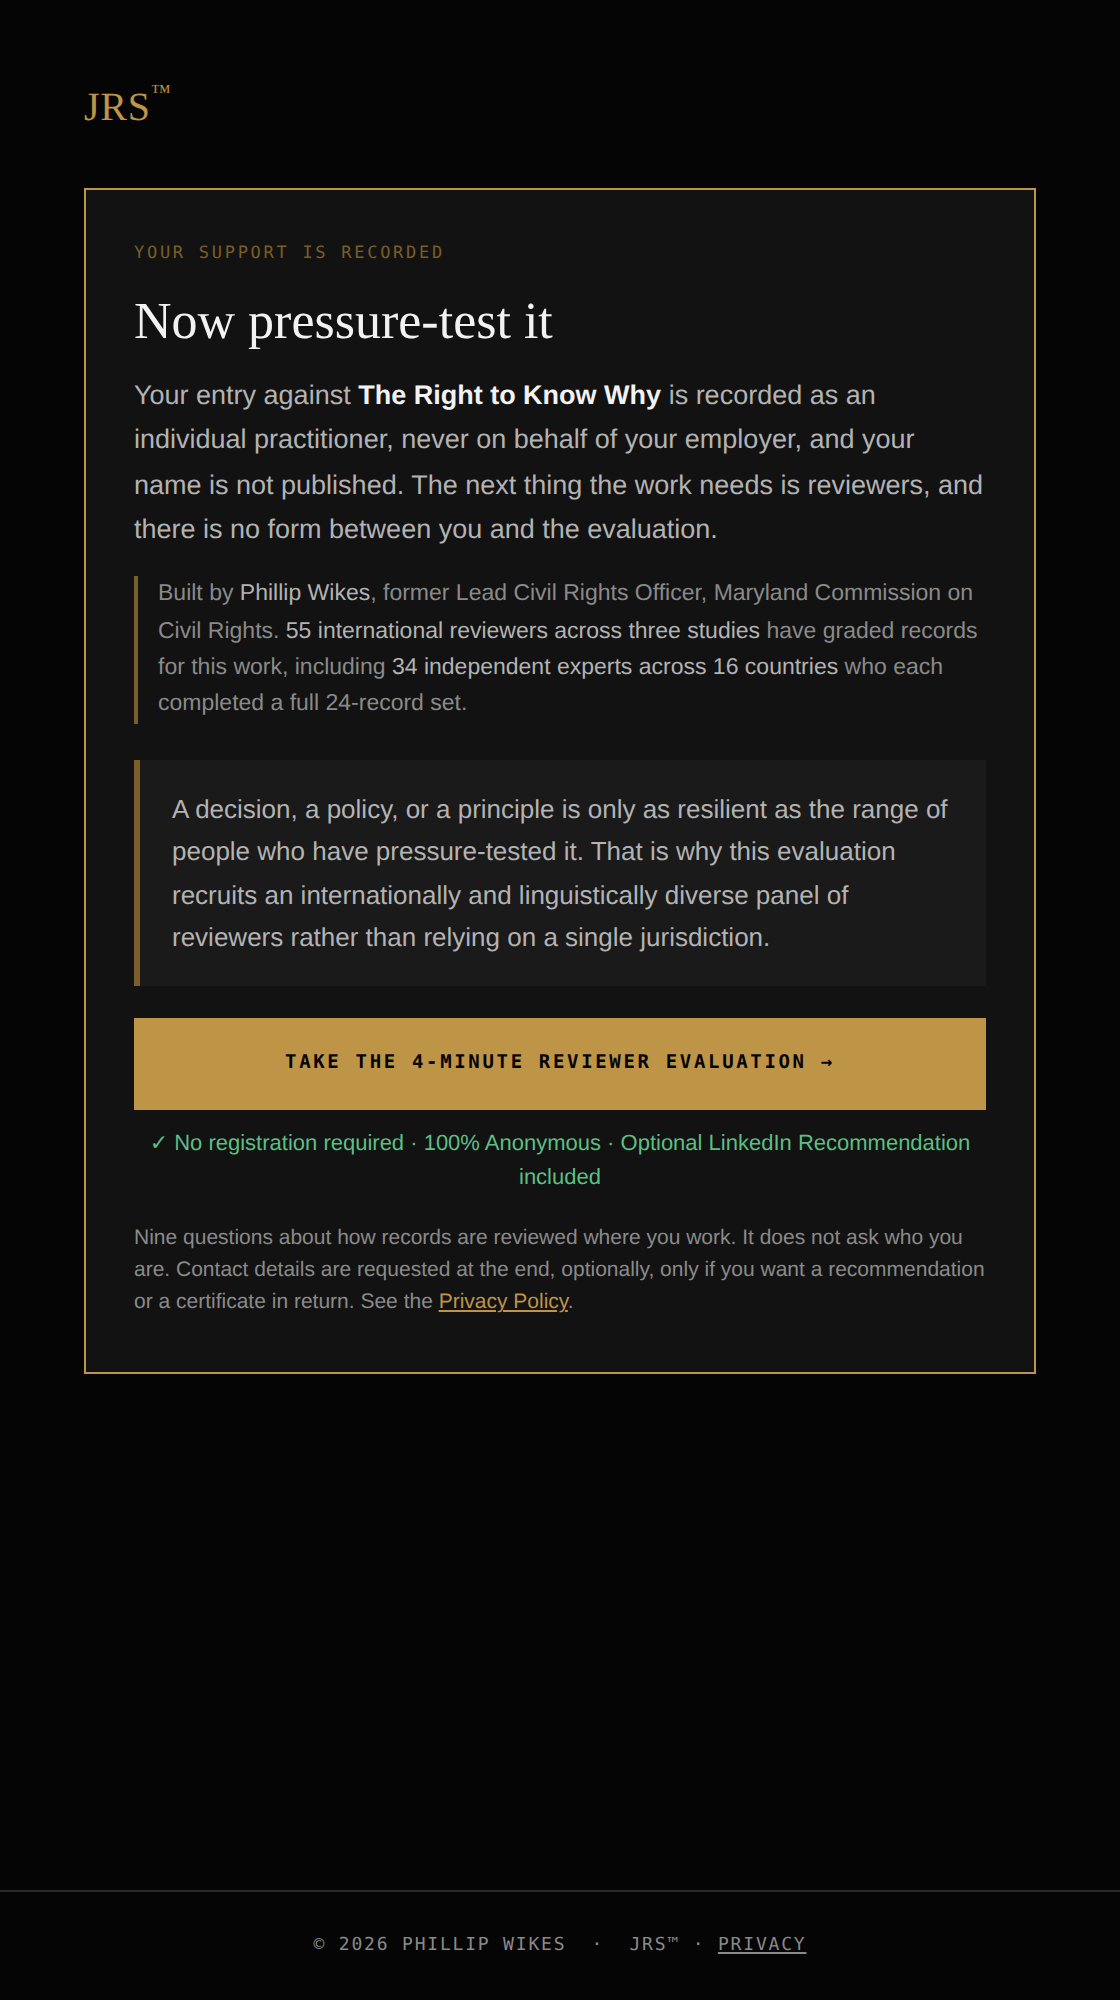
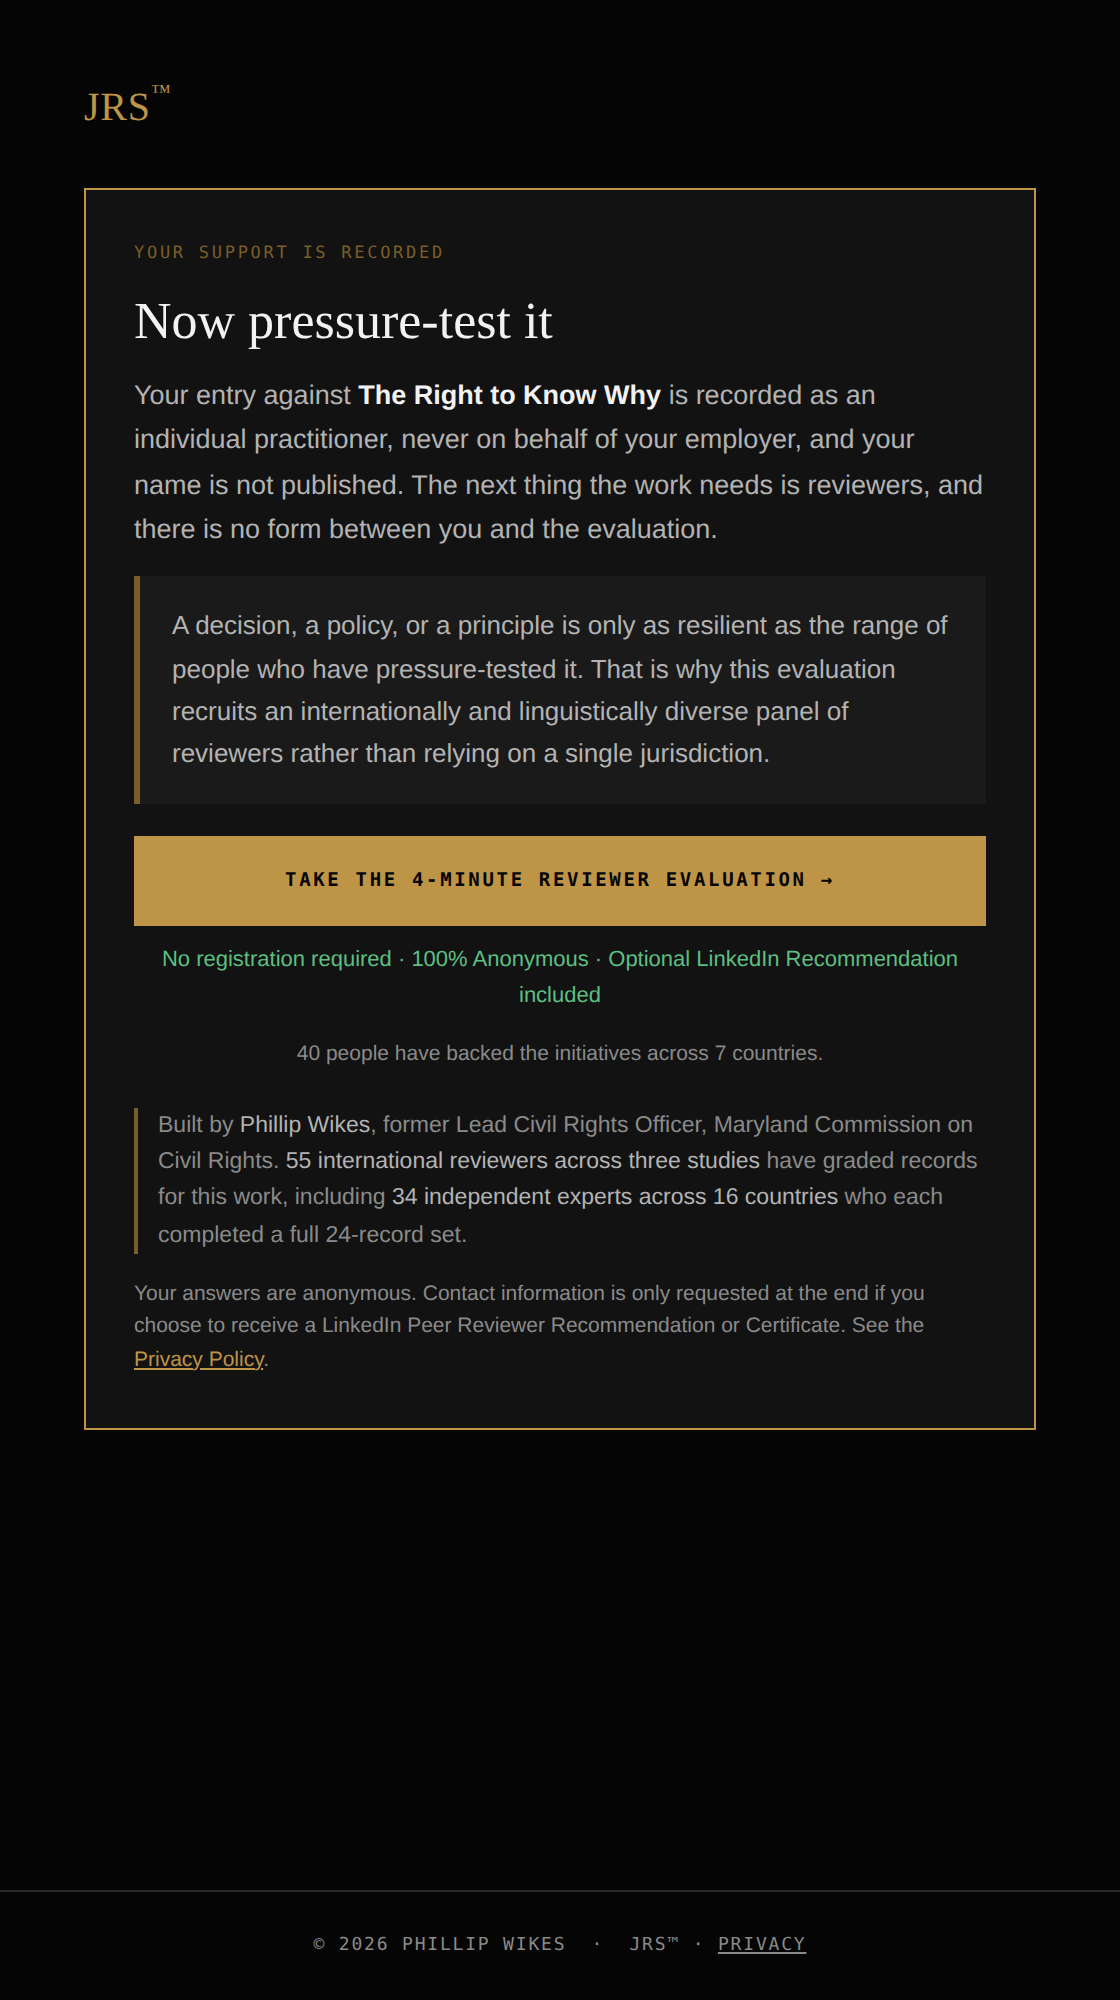
Apply the specified campaign copy and lift the CTA clear of the mobile fold
The trust line drops its leading checkmark to match the specified string, and
the disclaimer is replaced with the specified sentence naming the LinkedIn Peer
Reviewer Recommendation and the Certificate.

The CTA was already directly under the hook and already above the fold, but at
615px on a 390x844 phone it was close. The credentials paragraph, 110px tall,
was the largest thing between the hook and the ask, and it is supporting
evidence rather than a precondition, so it moves below the button. Measured
result: CTA top 615 to 505 on an iPhone 14/15, 655 to 527 on a 360px Android.
The whole screen now fits above the fold with nothing to scroll.

gate-view telemetry re-verified after the reorder by intercepting the request
body on both campaigns; it still fires once per session with campaign and src.

Claude-Session: https://claude.ai/code/session_01W9UtE7X76spacWeSvBH7tv

Changed region(s): [[0.0938, 0.279, 0.9062, 0.682]]

diff --git a/access.html b/access.html
@@ -13,7 +13,7 @@ a{color:var(--accent)}
 .eyebrow{font-family:'JetBrains Mono',monospace;font-size:8.5px;letter-spacing:.16em;text-transform:uppercase;color:var(--accent-dim);margin-bottom:10px}
 h1{font-family:'Bodoni Moda',serif;font-weight:400;font-size:26px;color:var(--text);margin:0 0 10px;line-height:1.25}
 .lede{font-size:13.5px;color:var(--muted);line-height:1.65;margin-bottom:12px}
-.cred{font-size:11.5px;color:var(--muted-soft);line-height:1.6;border-left:2px solid var(--accent-dim);padding:0 0 0 10px;margin-bottom:18px}
+.cred{font-size:11.5px;color:var(--muted-soft);line-height:1.6;border-left:2px solid var(--accent-dim);padding:0 0 0 10px;margin:18px 0 0}
 .cred b{color:var(--muted);font-weight:500}
 .tip{font-size:11px;color:var(--review-text);line-height:1.55;margin-bottom:12px}
 .card{background:var(--surface);border:1px solid var(--accent);padding:26px 24px;margin-top:24px}
@@ -35,14 +35,19 @@ footer{border-top:1px solid var(--rule);padding:20px 22px;text-align:center}
     <div class="eyebrow" id="eyebrow">JRS Investigator Field Guide</div>
     <h1 id="headline">Free Record Defensibility Check</h1>
     <p class="lede" id="lede">Free for practitioners. Two fields and one box.</p>
-    <p class="cred">Built by <b>Phillip Wikes</b>, former Lead Civil Rights Officer, Maryland Commission on Civil Rights. <b>55 international reviewers across three studies</b> have graded records for this work, including <b>34 independent experts across 16 countries</b> who each completed a full 24-record set.</p>
     <p class="tip" id="app-tip" style="display:none">Reading inside the LinkedIn app? Tap the &hellip; menu and choose <b>Open in browser</b> first, so links open properly.</p>
 
     <p class="hook" id="hook"></p>
     <a id="cta-eval" class="cta" href="/reviewer/evaluation.html">Take the 4-minute reviewer evaluation &rarr;</a>
-    <p class="trust" id="cta-trust">&#10003; No registration required &middot; 100% Anonymous &middot; Optional LinkedIn Recommendation included</p>
+    <p class="trust" id="cta-trust">No registration required &middot; 100% Anonymous &middot; Optional LinkedIn Recommendation included</p>
     <p class="fine" id="cta-proof" style="text-align:center"></p>
-    <p class="fine" id="cta-fine">Nine questions about how records are reviewed where you work. It does not ask who you are. Contact details are requested at the end, optionally, only if you want a recommendation or a certificate in return. See the <a href="privacy.html">Privacy Policy</a>.</p>
+
+    <!-- Credentials moved below the button on 2026-08-11. They are supporting
+         evidence, not a precondition, and at 110px tall they were the single
+         largest thing standing between the hook and the ask on a phone. -->
+    <p class="cred">Built by <b>Phillip Wikes</b>, former Lead Civil Rights Officer, Maryland Commission on Civil Rights. <b>55 international reviewers across three studies</b> have graded records for this work, including <b>34 independent experts across 16 countries</b> who each completed a full 24-record set.</p>
+
+    <p class="fine" id="cta-fine">Your answers are anonymous. Contact information is only requested at the end if you choose to receive a LinkedIn Peer Reviewer Recommendation or Certificate. See the <a href="privacy.html">Privacy Policy</a>.</p>
   </div>
 </div>
 

diff --git a/research/MASTER_TRACKER.md b/research/MASTER_TRACKER.md
@@ -1079,3 +1079,4 @@ The review instrument stores working keys; they map to the standard as follows (
 - 2026-08-11 (campaign gate rebuilt as two clicks into the reviewer pathway): Owner asked to align the campaign/access gate with /reviewer/evaluation.html: two CTAs instead of the multi-field form, the diverse-panel research hook in the hero, and src passed through. **campaign.html AND support.html DO NOT EXIST**; the only gate file is access.html, and /api/support is an edge function that writes the endorsement row on a bare GET then 302s to access.html. So the named LinkedIn links already record the endorsement BEFORE the reader ever sees the gate, which means the four-field form was charging them a second time for something already paid, and the measured result was 1 registration against roughly 100 opens. **SCOPED TO THE CAMPAIGN MODE ONLY AND THE GUIDE MODE LEFT INTACT**, because access.html serves both from one file and in guide mode the form IS the delivery mechanism for the Investigator Field Guides: stripping it there would have broken a funnel carrying 63 registered downloads to fix one carrying 1. Verified both routes headless after the change: campaign shows the CTA block with the form hidden, guide still shows name/email/submit with the CTA block hidden. **THE TWO CTAs MATCH reviewer/index.html EXACTLY**, which already carried this pattern with these labels, so the .cta and .cta.ghost declarations were copied rather than reinvented. **ATTRIBUTION SURVIVES THE HOP**: src and campaign are appended to both hrefs, giving /train?access=reviewer&focus=1&src=linkedin&c=rtkw and /reviewer/evaluation.html?src=linkedin&c=rtkw. Verified against production that Vercel merges the redirect query without duplicating access or focus, that access=reviewer is a live code in training.html's ACCESS_CODES granting Module 1 preview, and that an explicit src wins over the code's own tag for channel attribution. evaluation.html already reads ?src= and sends it on both the GET eval-view log and the POST answer row, so campaign-recruited reviewers will show up attributed in the funnel instead of as direct traffic. **TWO-ROW ISOLATION VERIFIED BY BRACE-MATCHED EXTRACTION OF EVERY WRITE PAYLOAD IN api/reviewer-eval.js, NOT BY GREP**, because a first pass with overlapping regex windows falsely showed printed_name and completion_code on the answer row. Actual state: interaction_events/reviewer-eval carries answers, sector, org_size, role, country, src and no identity; pilot_contacts/reviewer-cert carries identity, consents and completion_code and no answers; pilot_contacts/reviewer-eval-incentive carries identity, LinkedIn and consents and no answers, no completion code and no evaluation id. No shared join key. Nothing in this change touched that file. **A DEFECT THE CHANGE ITSELF INTRODUCED WAS FIXED RATHER THAN LEFT**: the OpenGraph card and page title still promised a Free Record Defensibility Check, which the campaign route no longer offers, and access.html is the most-shared URL on the site with 62 of 101 views arriving from LinkedIn. og:title, og:description, twitter:title and twitter:description rewritten to the panel framing, and document.title set per mode so the campaign screen stops saying Register. **THE LINKEDIN CARD FOR ALREADY-POSTED CAMPAIGN LINKS WILL STILL SHOW THE OLD TEXT UNTIL RE-SCRAPED THROUGH POST INSPECTOR**, which is owner-side and now more urgent than it was. Also removed two orphans: the empty registry-live placeholder, which nothing writes to now that the live count moved under the buttons, and the unguarded document-level Enter handler, which would have run submit() against hidden empty inputs on the campaign route. **ONE CONSEQUENCE STATED PLAINLY FOR THE OWNER**: campaign traffic no longer produces a transferable contact at the gate. It produced exactly one in nine days, and capture now happens at the evaluation's optional incentive block, paid for with a recommendation or a certificate rather than demanded before entry. org-pilot.html, the old post-registration destination, has 0 sessions all-time, so nothing measured was lost.
 - 2026-08-11 (campaign snapshots, published counts corrected to 55/34/16, and a completer found missing from the roster): Owner asked for snapshots of each campaign screen, a check that reviewer and country figures update correctly, and a summary of the evaluation. **THE FIGURE CHECK FOUND A REAL GAP, NOT A FORMATTING ISSUE.** The two canonical scripts disagreed: count_participants.py returned 34 completers and build_expert_roster.py returned 33. **THE CAUSE WAS THAT build_expert_roster.py WAS PRINTING len(ARM_A) + len(ARM_B), THE SIZE OF THE TRANSCRIBED ROSTER, UNDER THE LABEL "completed a full 24-record set".** It was never a live count. It agreed with reality only for as long as the roster was current, and it diverged silently the moment somebody completed without being transcribed. **THE MISSING PERSON IS ALEXANDRIA DAVIS, RR-117, WHO COMPLETED THIS MORNING AND WHOSE CERTIFICATE AND RECOMMENDATION I BUILT WITHOUT ADDING HER TO THE ROSTER.** My omission, from earlier the same day. Added her to ARM_B (Responsible AI and Compliance Leader; Founder and Principal Consultant, FIEA Consulting Inc.; DBA candidate; Canada, Toronto; B1), replaced the roster-length print with a live count over pilot_progress and armb_progress, and added a WARNING branch that fires whenever live completers and transcribed entries disagree, so the same class of drift announces itself instead of sitting quiet. **CORRECTED PUBLISHED FIGURES: 54 to 55 reviewers who have graded at least one record, and 33 to 34 who completed a full 24-record set. COUNTRIES STAY AT 16 AND THAT WAS CHECKED RATHER THAN ASSUMED**: the completer roster shows 17 distinct country strings, one of which is "not recorded" covering 3 people, and Alexandria is Canada, which was already represented by RR-107. Continents stay at 5. Updated every occurrence across access.html, reviewer/index.html (prose and the 54 stat tile), org-pilot.html, investigator-guides.html, research.html (three places, and the "counted from the study database" date moved from 9 to 11 August) and acquisition-9f3c2a7d4b.html (44 registered to 46, since Arm A 27 + Arm B 19 = 46, and re-dated). **THE HONOR ROSTER IS NOW ONE SHORT AND WAS DELIBERATELY NOT SILENTLY FIXED.** api/honor.js holds 34 entries built as 1 public-records + 16 detection + 17 records-review, and records-review completers are now 18. Adding an entry means writing a citation and issuing a link, which is an outward-facing recognition decision belonging to Phillip, so the stale comment claiming 33 completers was replaced with an explicit note recording the gap and why it was left. **SNAPSHOTS TAKEN OF BOTH CAMPAIGN SCREENS PLUS A PHONE WIDTH**, rtkw and defend at 560px and rtkw at 390px, each verified for the campaign label, the passed-through src and c on both CTAs, the hidden form, the corrected 55/34/16 credential line, and no horizontal scroll. **EVALUATION SUMMARY WRITTEN FROM THE INSTRUMENT, NOT FROM NOTES**: all nine question texts and answer sets pulled from reviewer/evaluation.html's TEXT map and reviewer-eval.js's QUESTIONS, the three profile fields, the three-row isolation re-verified by brace-matched extraction of each write payload, and the funnel read live. Filed as research/Reviewer_Evaluation_Summary_2026-08-11.md. **THE SUMMARY'S CENTRAL FACT IS THAT EVERY STAGE READS ZERO BECAUSE THE EVALUATION HAS NEVER BEEN SENT**, not because anything is broken. One suspected defect was chased and cleared: completionCode() appears twice in reviewer-eval.js, which would have meant the code on the certificate differing from the code in the database, but the two calls sit in mutually exclusive branches and the real path returns the same code it writes. Recommendation recorded in the summary: set the minimum-cell reporting threshold for sector and role in writing now, before the first response arrives, the same way asset-stats already refuses to break answers down by country.
 - 2026-08-11 (guide gate removed at source, campaign screen consolidated to one CTA, crawler filter and an N>=30 disclosure floor): Owner asked to remove the gate on the Investigator Field Guides while continuing to measure downloads by country, to collapse the campaign screen to a single evaluation CTA, and to add crawler filtering plus a sub-group suppression rule to asset-stats. **THE GUIDE GATE LIVED IN THREE PLACES, NOT ONE, AND REMOVING ONLY THE VISIBLE LINK WOULD HAVE LEFT IT RUNNING.** api/dl.js was redirecting an edition link to the consent form whenever gate=1 OR src was site, email, signature or footer, which is every link in an email footer or signature already in circulation. Removed that branch entirely, so every shape of ?e= link now releases the file. investigator-guides.html carried three "Email it to me instead" gate links and a post-download "Register and open the record check" CTA; the gate links and their now-dead .dl-alt CSS are gone and the CTA points at the reviewer evaluation. access.html?e= now redirects straight to /api/dl, so legacy gated links in the wild deliver the file instead of a form. **COUNTRY MEASUREMENT IS UNAFFECTED AND THIS WAS CHECKED RATHER THAN ASSUMED**: country, edition and src are written on the download row in dl.js, not on the registration, so geo-stats keeps counting exactly as before. **A TRIPLED QUERY PARAMETER WAS FIXED IN PASSING**: the guides page retry link was building '&src=guides' + '&src=guides' + '&src=guides'. **access.html WENT FROM 534 LINES TO 146** because with both modes gone the registration form, its submit path, the field-touch instrument, the consent panels and 25 CSS rules were all orphaned. Removing the Registry listing block from this page destroys nothing: the same listing opt-in exists in org-pilot.html and training.html, which was verified before deleting. The page is now the campaign screen and nothing else. **SINGLE PRIMARY CTA**: the Module 1 button is gone, the evaluation is now solid gold reading "Take the 4-minute reviewer evaluation", src and c still travel with it, and the micro-copy reads "No registration required, 100% Anonymous, Optional LinkedIn Recommendation included". Verified on both campaigns and at 390px with no horizontal scroll. **CRAWLER FILTERING ADDED TO asset-stats BECAUSE THE PUBLISHED DEVICE SPLIT WAS A CRAWL SCHEDULE.** Googlebot presents a smartphone user agent, which was carrying the public figure to 80 percent mobile on ten flagged rows of which seven were bots and three were one person on one iPhone. Declared crawlers are now excluded from the device split and from evaluation opens, with crawler_rows_excluded and opened_crawlers_excluded published rather than the exclusion being silent. **THE N>=30 DISCLOSURE FLOOR IS SET BEFORE THE FIRST RESPONSE ARRIVES, WHICH IS THE ONLY TIME IT CAN HONESTLY BE SET.** Below 30 submissions, breakdowns by country, sector, role and organization size return empty with breakdowns_released false and a note stating the threshold and the reason. Sector, role and org-size breakdowns were added at the same time, gated, so they exist and are simply withheld. Opens are deliberately NOT gated: a page open carries no answer and no identity and cannot re-identify a respondent, and the distinct-country scalars survive for the same reason. pilot-status.html was updated to say the columns are withheld rather than empty, because otherwise the dashboard reads zeros as a finding. **ONE CONSEQUENCE FOR THE OWNER: THE SITE NOW HAS NO CONTACT CAPTURE IN FRONT OF ANYTHING.** The campaign gate went on 2026-08-11 and the guide gate has now followed. Every transferable contact from here comes from the evaluation's optional incentive block, paid for with a recommendation or a certificate. The guide gate returned 20 opens and 0 completions, so nothing measured was lost, but the capture surface is now singular and it depends entirely on the evaluation being sent.
+- 2026-08-11 (campaign screen: exact copy applied, credentials moved below the ask, CTA lifted well clear of the fold): Owner re-specified the campaign landing screen. **THREE OF THE FIVE ITEMS WERE ALREADY LIVE FROM EARLIER THE SAME DAY** and were verified rather than rebuilt: the Module 1 button is gone, the evaluation is the single solid gold CTA reading "Take the 4-minute reviewer evaluation", and src plus campaign travel with it (?src=linkedin&c=rtkw confirmed on both campaigns). **TWO WERE GENUINELY NEW.** The trust line dropped its leading checkmark to match the specified string exactly and now reads "No registration required, 100% Anonymous, Optional LinkedIn Recommendation included", confirmed rendering in var(--ready-text) green at rgb(93,191,130). The disclaimer was replaced with the specified sentence verbatim: "Your answers are anonymous. Contact information is only requested at the end if you choose to receive a LinkedIn Peer Reviewer Recommendation or Certificate." **THE MOBILE INSTRUCTION WAS TREATED AS A MEASUREMENT, NOT A GUESS.** The CTA was already directly under the hook and already above the fold, but only barely: measured at 615px top on a 390x844 iPhone and 655px on a 360x780 Android. The single largest obstruction was the .cred credentials paragraph, 110px tall, sitting between the lede and the hook. Credentials are supporting evidence and not a precondition, so they moved below the CTA block and .cred's margin flipped from margin-bottom to margin-top. **RESULT MEASURED ACROSS THREE PHONE SIZES: CTA TOP 615 TO 505 ON iPhone 14/15, 655 TO 527 ON A 360px ANDROID, 572 TO 462 ON A Pro Max.** The whole screen now fits above the fold at 390x844 with no scrolling: hook, button, green trust line, live reach count, credentials and disclaimer all visible, captured in research/shot_campaign_rtkw_fold.png as a single unscrolled phone screen. **TELEMETRY VERIFIED INTACT AFTER THE REORDER RATHER THAN ASSUMED**, since moving markup can silently break a listener: the gate-view POST still fires once per session and still carries the campaign and src, confirmed on two campaigns by intercepting the request body, {"event":"view","mode":"support","edition":"","campaign":"rtkw","src":"linkedin"} and the defend/email equivalent. **campaign.html AND support.html STILL DO NOT EXIST**, as recorded earlier today; access.html is the only campaign screen and all changes landed there.
